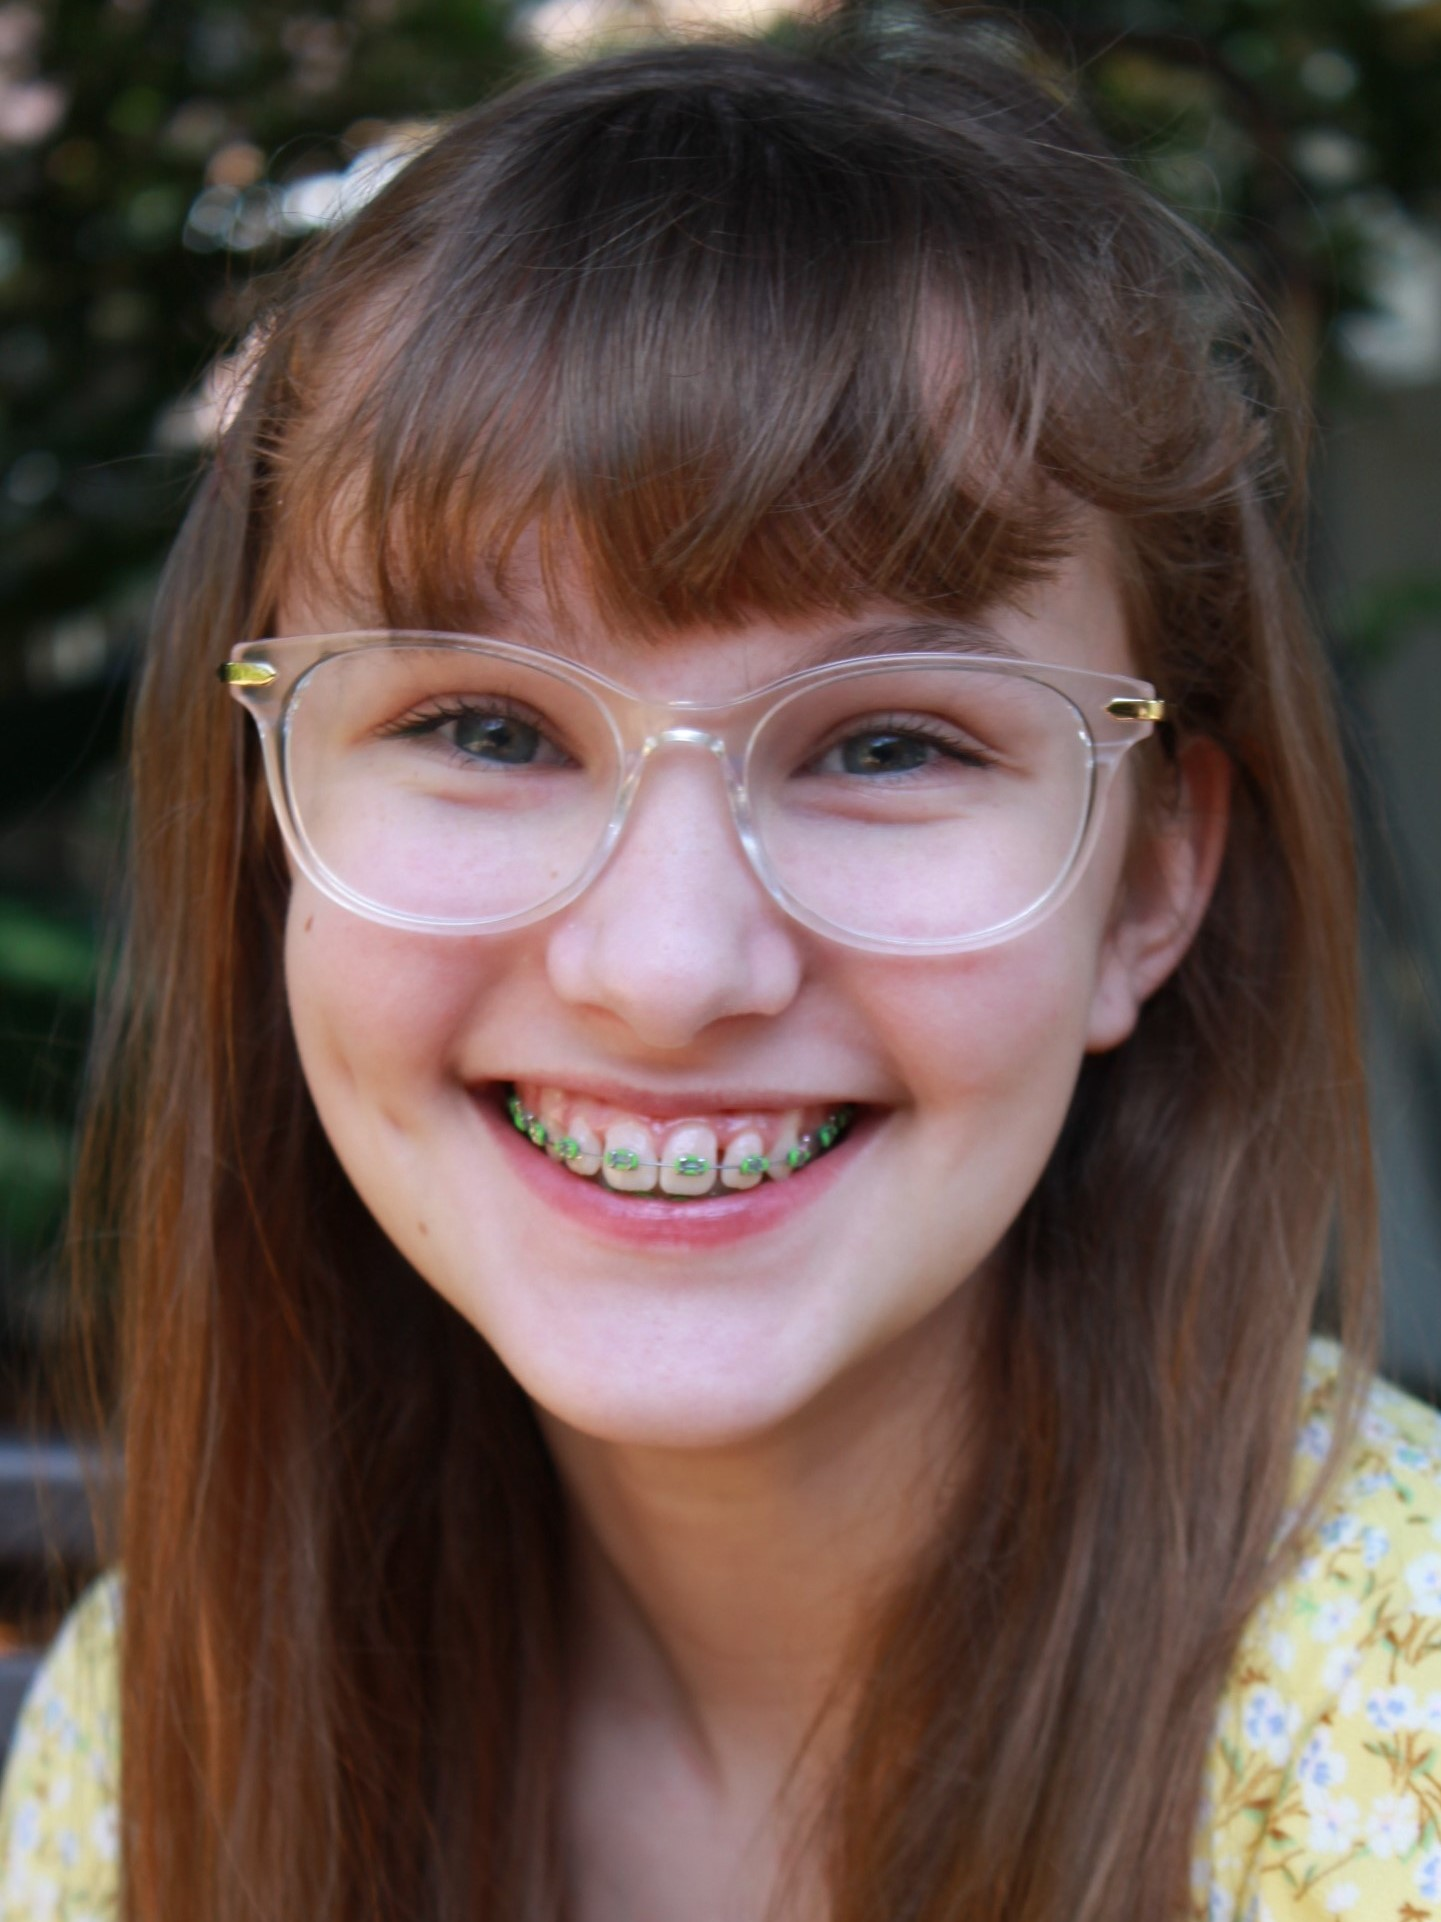
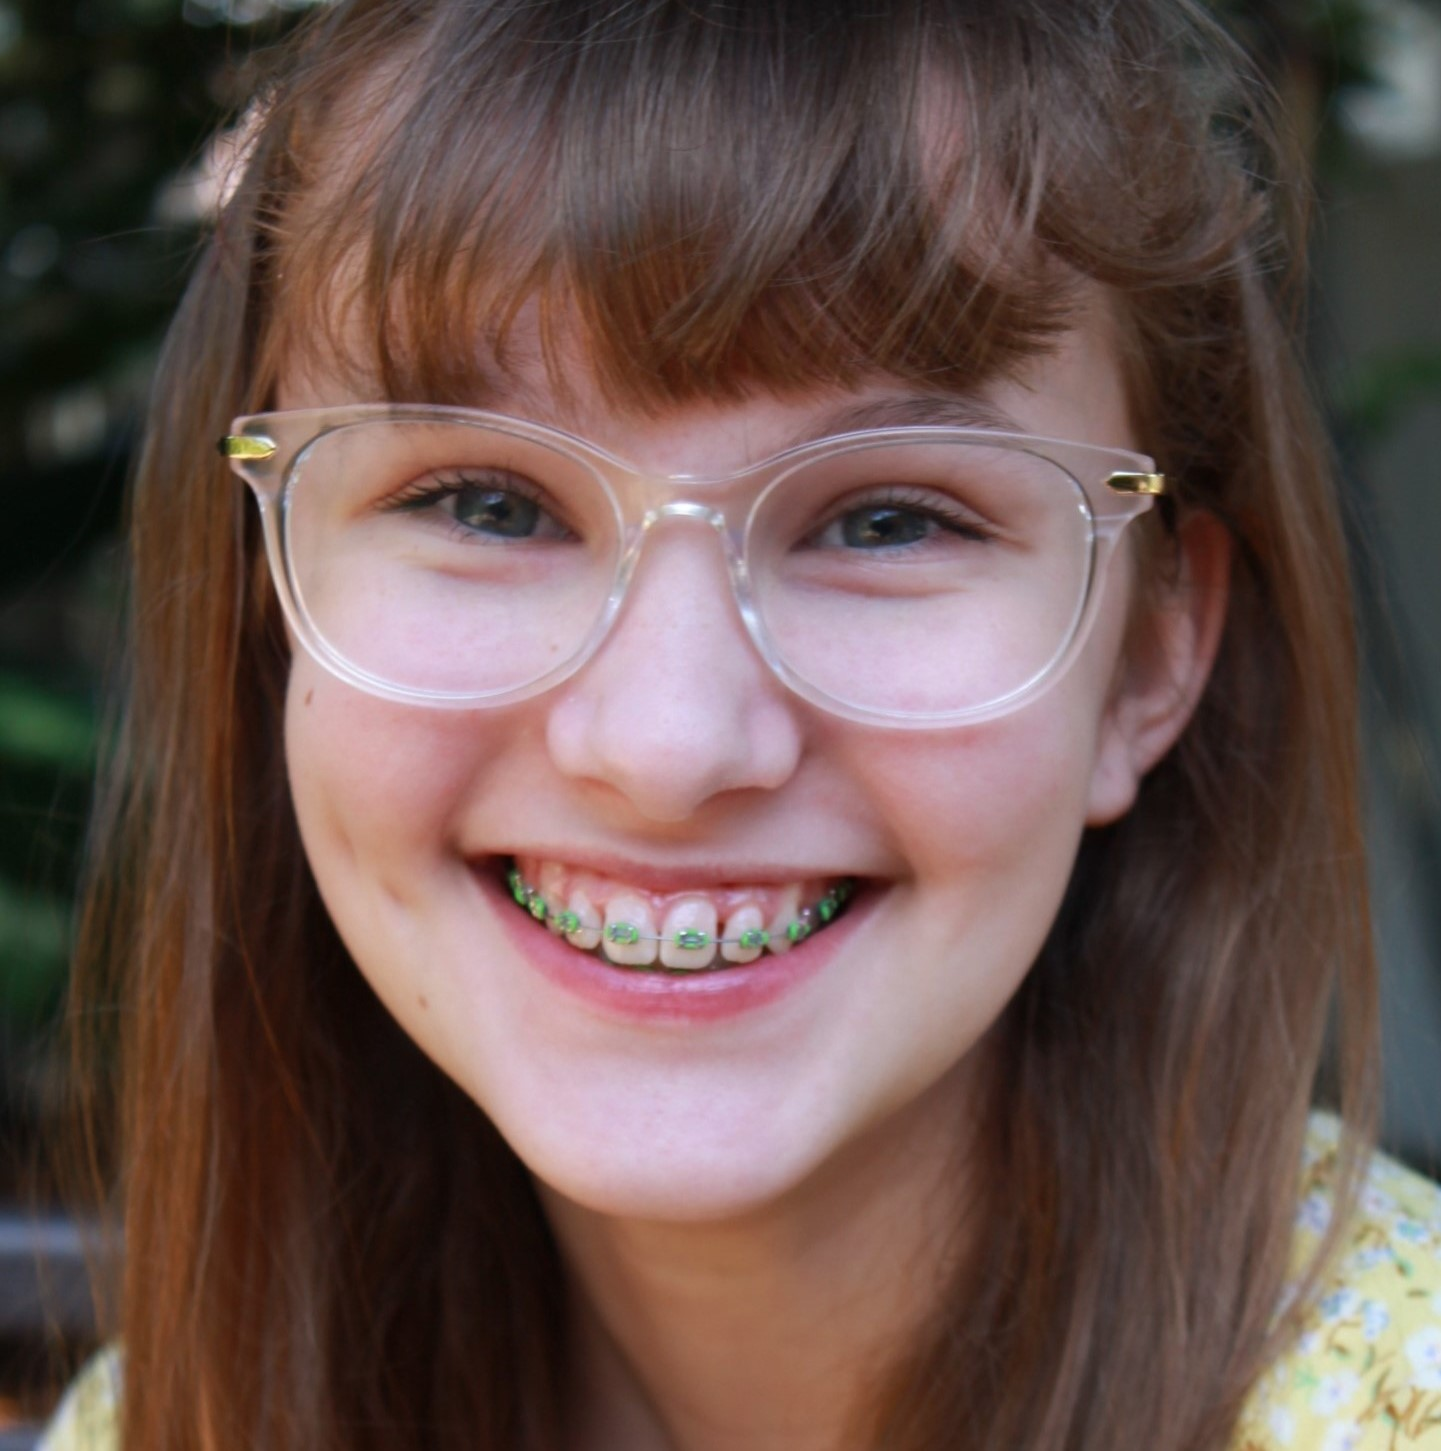
resize pic

diff --git a/style.css b/style.css
@@ -633,7 +633,7 @@ body {
 }
 
 .news-body h3 {
-    font-size: 34px;
+    font-size: 40px;
     color: #EEE1B7;
     margin-top: 20px;
     margin-bottom: 20px;
